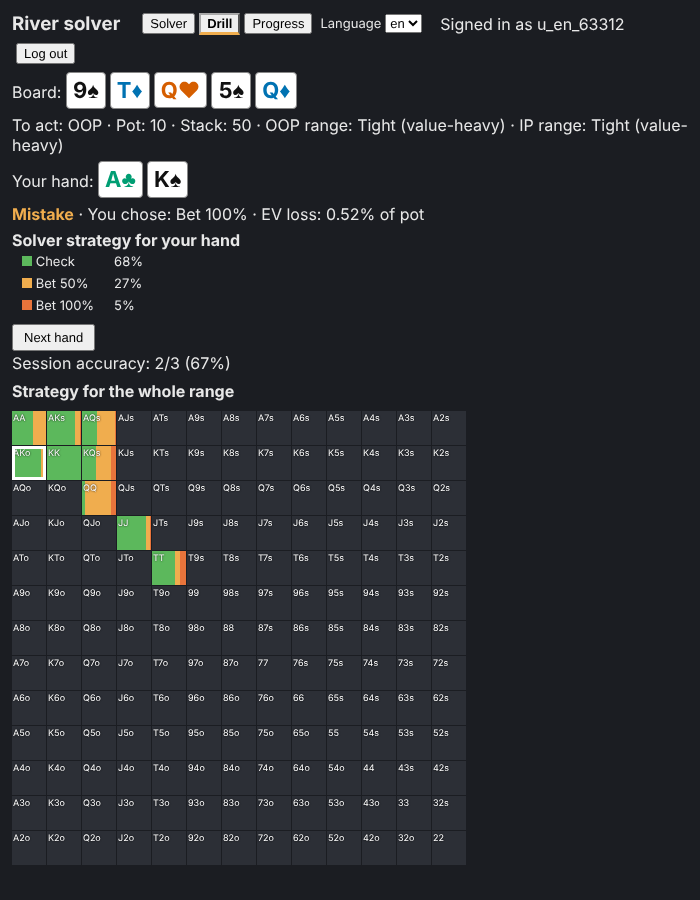
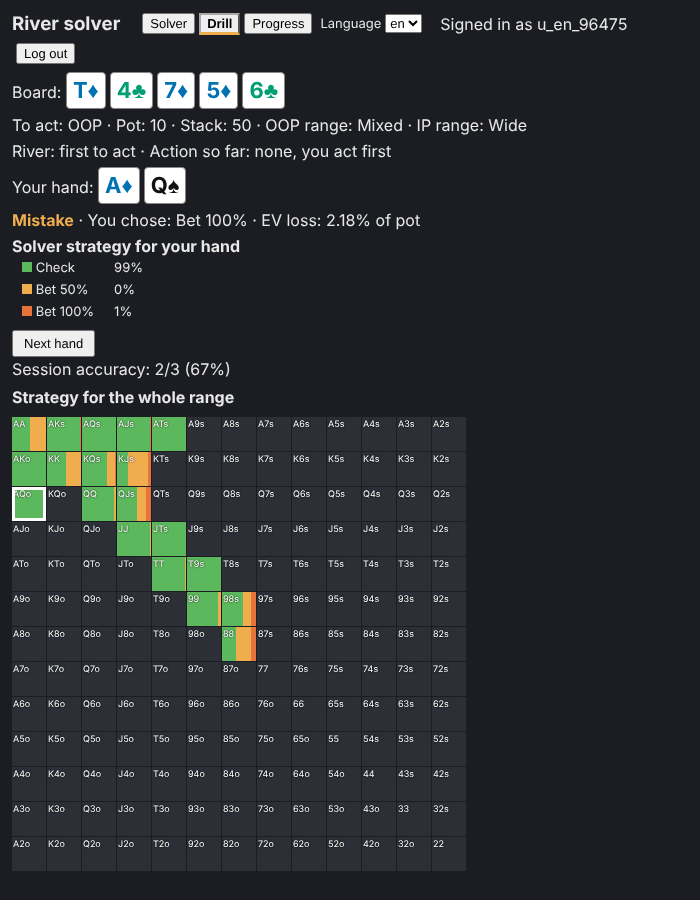
Drills cover every river decision node (reach-weighted path sampling); spot-type breakdown on progress page
Claude-Session: https://claude.ai/code/session_01515mrjejBGv2Z99h5qqhGr

diff --git a/web/src/main.ts b/web/src/main.ts
@@ -1,7 +1,7 @@
 import { t, fmt, locales, type Lang, type Key } from './i18n';
 import { parseRange, presets, R } from './ranges';
 import { api, ApiError, type Progress } from './api';
-import { combos, comboName, cardName, randomBoard, sampleHand, freqsFor, evLossPct, isCorrect, spotId, SUITS, RANKS } from './drill';
+import { combos, comboName, cardName, randomBoard, freqsFor, evLossPct, isCorrect, spotId, samplePath, nodeType, isFacing, type Step, type NodeType, SUITS, RANKS } from './drill';
 
 // Bet sizes sent to the engine; labels derive from these (NodeView has no size info, so this assumes none are merged/dropped, e.g. at all-in).
 const sizes = [0.5, 1];
@@ -16,7 +16,7 @@ let user: string | null = null;
 let authErr = '';
 let progress: Progress | 'loading' | null = null;
 const drill = { phase: 'idle' as 'idle' | 'solving' | 'ask' | 'reveal', board: '', oop: '', ip: '', view: null as View | null, h: 0,
-  freqs: [] as number[], chosen: -1, evLoss: 0, t0: 0, correct: 0, total: 0, saveErr: '' };
+  path: [] as number[], steps: [] as Step[], freqs: [] as number[], chosen: -1, evLoss: 0, t0: 0, correct: 0, total: 0, saveErr: '' };
 
 let lang: Lang = (new URLSearchParams(location.search).get('lang') as Lang) in locales
   ? (new URLSearchParams(location.search).get('lang') as Lang) : 'en';
@@ -34,15 +34,17 @@ worker.onmessage = (e) => {
   const m = e.data;
   if (m.type === 'progress') { expl = m.expl; iters = m.iters; if (owner === 'solver') { if (!view) query([]); renderStatus(); } }
   else if (m.type === 'done') {
-    if (owner === 'drill') { query([]); return; }
+    if (owner === 'drill') { dealNode(); return; }
     solving = false; expl = m.expl; iters = m.iters; query(path); render();
   }
   else if (m.type === 'node') {
-    if (owner === 'drill') { if (drill.phase === 'solving') dealHand(m.view); return; }
+    if (owner === 'drill') { pend.get(JSON.stringify(m.path))?.(m.view); return; }
     view = m.view; renderGrid();
   }
   else if (m.type === 'error') { solving = false; if (owner === 'drill') drill.phase = 'idle'; err = m.message; render(); }
 };
+const pend = new Map<string, (v: View) => void>();
+const queryAsync = (p: number[]) => new Promise<View>((res) => { pend.set(JSON.stringify(p), res); worker.postMessage({ type: 'query', path: p }); });
 const query = (p: number[]) => worker.postMessage({ type: 'query', path: p });
 
 function actions(v: View, fac: boolean): { key: Key; vars?: Record<string, string | number>; color: string }[] {
@@ -160,9 +162,15 @@ function startDrill() {
   render();
 }
 
-function dealHand(v: View) {
-  drill.view = v; drill.h = sampleHand(v.range); drill.phase = 'ask'; drill.t0 = Date.now();
+async function dealNode() {
+  const s = await samplePath(queryAsync, parseBoard(drill.board));
+  Object.assign(drill, { view: s.view, h: s.h, path: s.path, steps: s.steps, phase: 'ask', t0: Date.now() });
   if (screen === 'drill') render();
+}
+
+function stepLabel(s: Step): string {
+  const vars = s.size >= 0 ? { size: fmt(sizes[s.size] ?? 0, lang, { style: 'percent' }) } : undefined;
+  return `${tr(('player.' + s.player) as Key)}: ${tr(('action.' + s.kind) as Key, vars)}`;
 }
 
 function answer(i: number) {
@@ -174,7 +182,7 @@ function answer(i: number) {
   drill.total++; if (isCorrect(drill.freqs, i)) drill.correct++;
   drill.phase = 'reveal'; drill.saveErr = '';
   render();
-  api.postResult({ spotId: spotId(drill.board, drill.oop, drill.ip), hero: v.player, handCombo: comboName(drill.h), action: i,
+  api.postResult({ spotId: spotId(drill.board, drill.oop, drill.ip, nodeType(drill.steps), drill.path), hero: v.player, handCombo: comboName(drill.h), action: i,
     solverFreqs: drill.freqs, evLoss: drill.evLoss, ms, lang }).catch((e) => {
     if (e instanceof ApiError && e.status === 401) { handleApiErr(e); return; }
     drill.saveErr = errText(codeOf(e)); const el = document.getElementById('save-err'); if (el) el.textContent = drill.saveErr;
@@ -190,9 +198,11 @@ function renderDrill() {
   if (drill.phase === 'solving') { el.innerHTML = `<p id="drill-solving">${tr('drill.solving')}</p>${sessionLine()}`; return; }
   const v = drill.view!;
   const [c1, c2] = combos[drill.h];
-  const as = actions(v, false);
+  const as = actions(v, isFacing(drill.steps));
+  const nt = nodeType(drill.steps);
   const head = `<div>${tr('board')}: <span id="board-cards">${parseBoard(drill.board).map(cardHtml).join('')}</span></div>
     <div style="margin:6px 0">${tr('toAct', { player: tr(('player.' + v.player) as Key) })} · ${tr('pot')}: ${fmt(DRILL.pot, lang)} · ${tr('stack')}: ${fmt(DRILL.stack, lang)} · ${tr('oop')}: ${tr(('preset.' + drill.oop) as Key)} · ${tr('ip')}: ${tr(('preset.' + drill.ip) as Key)}</div>
+    <div id="history" data-node="${nt}" data-depth="${drill.steps.length}" style="margin:6px 0">${tr(('progress.spot.river:' + nt) as Key)} · ${tr('drill.history')}: ${drill.steps.length ? drill.steps.map(stepLabel).join(' → ') : tr('drill.noHistory')}</div>
     <div style="margin:6px 0">${tr('drill.yourHand')}: <span id="hand" data-combo="${comboName(drill.h)}">${[c2, c1].sort((a, b) => (b >> 2) - (a >> 2)).map(cardHtml).join('')}</span></div>`;
   if (drill.phase === 'ask') {
     el.innerHTML = `${head}<div>${tr('drill.choose')}</div><div id="acts">${as.map((a, i) => `<button class="a" data-a="${i}" style="border-left:6px solid ${a.color}">${tr(a.key, a.vars)}</button>`).join('')}</div>${sessionLine()}`;

diff --git a/web/tests/drill.test.ts b/web/tests/drill.test.ts
@@ -1,6 +1,6 @@
 import { expect, test } from 'vitest';
 import { readFileSync } from 'node:fs';
-import { combos, comboName, evLossPct, freqsFor, H, isCorrect, randomBoard, sampleHand, spotId } from '../src/drill';
+import { combos, comboName, evLossPct, freqsFor, H, isCorrect, randomBoard, sampleHand, spotId, samplePath, nodeType, stepOf } from '../src/drill';
 import { parseRange, presets } from '../src/ranges';
 import init, { Solver } from '../src/wasm/gto_wasm.js';
 
@@ -56,4 +56,70 @@ test('real engine: dealt hand is in range, per-action EVs are consistent with th
     const losses = f.map((_, k) => evLossPct(v.action_ev, v.opp_mass, v.n, h, k, 10));
     expect(Math.min(...losses)).toBe(0);
   }
+});
+
+// synthetic 2-level tree: root (OOP: check 25% / bet 75% for hand 0, always bet for hand 1), then IP node reach depends on that
+const fake = (path: number[]) => {
+  const range = new Float32Array(H), strategy = new Float32Array(2 * H);
+  if (path.length === 0) {
+    range[0] = 1; range[1] = 1; range[2] = 1;      // combo 2 shares a card with the board below
+    strategy[0] = 0.25; strategy[H] = 0.75; strategy[1] = 0; strategy[H + 1] = 1; strategy[2] = 0.5; strategy[H + 2] = 0.5;
+    return Promise.resolve({ kind: 'action', player: 0, n: 2, strategy, range });
+  }
+  if (path.length === 1) {
+    const r = path[0] === 0 ? [0.25 * 1, 0, 0] : [0.75, 1, 0];
+    r.forEach((x, h) => (range[h + 10] = x)); strategy[10] = strategy[H + 10] = 0.5;
+    strategy[H + 11] = 1; range[0] = 0;
+    return Promise.resolve({ kind: 'action', player: 1, n: 2, strategy, range });
+  }
+  return Promise.resolve({ kind: 'showdown', player: 0, n: 0, strategy, range });
+};
+
+test('samplePath: reach-weighted, deterministic, never board-colliding or zero-reach', async () => {
+  const board = [combos[2][1]]; // blocks combo 2
+  const run = async (seed: number) => { const rng = lcg(seed), out: string[] = []; for (let i = 0; i < 3000; i++) { const s = await samplePath(fake, board, rng, 0.4); out.push(`${s.path}|${s.h}`); } return out; };
+  const a = await run(5);
+  expect(await run(5)).toEqual(a);
+  const cnt: Record<string, number> = {};
+  for (const x of a) cnt[x] = (cnt[x] ?? 0) + 1;
+  for (const k of Object.keys(cnt)) {
+    const [p, h] = k.split('|'); const hh = +h;
+    expect(combos[hh].some((c) => board.includes(c))).toBe(false);
+    if (p === '0') expect(hh).toBe(10);          // only combo 10 has reach after check
+    if (p === '1') expect([10, 11]).toContain(hh);
+    if (p === '') expect([0, 1]).toContain(hh);
+  }
+  expect(Object.keys(cnt).some((k) => k.startsWith('1|'))).toBe(true);
+  // after bet, hand 10 (reach .75) vs 11 (reach 1) by weight
+  expect(cnt['1|11'] / cnt['1|10']).toBeGreaterThan(1.1);
+  expect(cnt['1|11'] / cnt['1|10']).toBeLessThan(1.6);
+  expect(a.some((x) => x.startsWith('|'))).toBe(true); // root still sampled
+  expect(nodeType([stepOf(0, 1, false)])).toBe('facing-bet');
+  expect(nodeType([stepOf(0, 1, false), stepOf(1, 2, true)])).toBe('facing-raise');
+  expect(nodeType([stepOf(0, 0, false)])).toBe('after-check');
+  expect(spotId('As Kd 7c 4h 2s', 'a', 'b', 'facing-bet', [1])).toBe('river:facing-bet:AsKd7c4h2s:a-b:1');
+});
+
+test('real engine: sampled non-root nodes are valid and consistent', async () => {
+  await init({ module_or_path: readFileSync(new URL('../src/wasm/gto_wasm_bg.wasm', import.meta.url)) });
+  const s = new Solver(JSON.stringify({ board: 'As Kd 7c 4h 2s', ranges: [parseRange(presets.mixed), parseRange(presets.mixed)],
+    streets: [{ pot: 10, stack: 50, sizes: [0.5, 1], raise_cap: 2 }], budget_mb: 1024 }));
+  s.step(60);
+  const q = async (p: number[]) => JSON.parse(s.query(JSON.stringify(p)));
+  const board = [51, 46, 21, 14, 3]; // As Kd 7c 4h 2s
+  const rng = lcg(11), types = new Set<string>();
+  for (let i = 0; i < 60; i++) {
+    const r = await samplePath(q, board, rng, 0.3);
+    const v = r.view;
+    types.add(nodeType(r.steps));
+    expect(v.kind).toBe('action');
+    expect(v.range[r.h]).toBeGreaterThan(0);
+    expect(combos[r.h].some((c) => board.includes(c))).toBe(false);
+    const f = freqsFor(v.strategy, v.n, r.h);
+    expect(f.reduce((x, y) => x + y, 0)).toBeCloseTo(1, 4);
+    expect(f.reduce((acc, p, k) => acc + p * v.action_ev[k * H + r.h], 0)).toBeCloseTo(v.ev[r.h], 2);
+    expect(Math.min(...f.map((_, k) => evLossPct(v.action_ev, v.opp_mass, v.n, r.h, k, 10)))).toBe(0);
+  }
+  console.log('node types sampled:', [...types]);
+  expect(types.size).toBeGreaterThan(1);
 });

diff --git a/web/src/drill.ts b/web/src/drill.ts
@@ -52,4 +52,53 @@ export function evLossPct(actionEv: ArrayLike<number>, oppMass: ArrayLike<number
 /** Same rule as the server: correct when the solver plays the chosen action >= 10% of the time. */
 export const isCorrect = (freqs: number[], action: number) => freqs[action] >= 0.1;
 
-export const spotId = (board: string, oop: string, ip: string) => `river:${board.replace(/\s+/g, '')}:${oop}-${ip}`;
+export type NodeType = 'root' | 'after-check' | 'facing-bet' | 'facing-raise';
+export interface Step { player: number; kind: 'check' | 'bet' | 'fold' | 'call' | 'raise'; size: number } // size = index into bet sizes (-1 = none)
+export interface NodeLike { kind: string; player: number; n: number; strategy: ArrayLike<number>; range: ArrayLike<number> }
+
+/** Meaning of action index i at a node (same convention as the UI: fold/call/raises when facing a bet, else check/bets). */
+export function stepOf(player: number, i: number, fac: boolean): Step {
+  if (fac) return i === 0 ? { player, kind: 'fold', size: -1 } : i === 1 ? { player, kind: 'call', size: -1 } : { player, kind: 'raise', size: i - 2 };
+  return i === 0 ? { player, kind: 'check', size: -1 } : { player, kind: 'bet', size: i - 1 };
+}
+export const isFacing = (steps: Step[]) => steps.length > 0 && ['bet', 'raise'].includes(steps[steps.length - 1].kind);
+export function nodeType(steps: Step[]): NodeType {
+  if (!steps.length) return 'root';
+  if (!isFacing(steps)) return 'after-check';
+  return steps.filter((s) => s.kind === 'bet' || s.kind === 'raise').length > 1 ? 'facing-raise' : 'facing-bet';
+}
+
+/** Copy of `range` with combos that share a card with `board` (card ints) zeroed. */
+export function maskBoard(range: ArrayLike<number>, board: number[]): Float64Array {
+  const out = new Float64Array(H);
+  for (let h = 0; h < H; h++) { const [a, b] = combos[h]; if (!board.includes(a) && !board.includes(b)) out[h] = range[h]; }
+  return out;
+}
+
+export interface Sampled<V> { path: number[]; steps: Step[]; view: V; h: number }
+/**
+ * Random walk from the root. At each action node stop with prob `stopP` (hero acts here), else draw the next action
+ * from the node player's reach-weighted average strategy. Stops early at a terminal/chance child or an empty range.
+ * Hero combo is then drawn by reach at the final node, never colliding with the board.
+ */
+export async function samplePath<V extends NodeLike>(query: (path: number[]) => Promise<V>, board: number[],
+  rng: () => number = Math.random, stopP = 1 / 3): Promise<Sampled<V>> {
+  let path: number[] = [], steps: Step[] = [];
+  let view = await query(path);
+  for (;;) {
+    const r = maskBoard(view.range, board);
+    if (rng() < stopP) break;
+    const mass = Array.from({ length: view.n }, (_, k) => { let m = 0; for (let h = 0; h < H; h++) m += r[h] * view.strategy[k * H + h]; return m; });
+    const tot = mass.reduce((a, b) => a + b, 0);
+    if (!(tot > 0)) break;
+    let x = rng() * tot, a = view.n - 1;
+    for (let k = 0; k < view.n; k++) if (mass[k] > 0 && (x -= mass[k]) < 0) { a = k; break; }
+    const np = [...path, a], child = await query(np);
+    if (child.kind !== 'action' || !(maskBoard(child.range, board).some((v) => v > 0))) break;
+    steps = [...steps, stepOf(view.player, a, isFacing(steps))]; path = np; view = child;
+  }
+  return { path, steps, view, h: sampleHand(maskBoard(view.range, board), rng) };
+}
+
+export const spotId = (board: string, oop: string, ip: string, type: NodeType = 'root', path: number[] = []) =>
+  `river:${type}:${board.replace(/\s+/g, '')}:${oop}-${ip}:${path.join('.') || 'root'}`;

diff --git a/server/test/server.test.js b/server/test/server.test.js
@@ -1,7 +1,7 @@
 import { test } from 'node:test';
 import assert from 'node:assert/strict';
 import { openDb } from '../src/db.js';
-import { createApp } from '../src/app.js';
+import { createApp, spotTypeOf } from '../src/app.js';
 import { summarize } from '../src/stats.js';
 
 async function boot(opts = {}) {
@@ -146,4 +146,17 @@ test('accuracy / streak / series math on fixed data', () => {
   assert.equal(summarize([row(1, 0, [1], 0), row(2, 0, [1], 0)], now).streak, 2);
   assert.equal(summarize([row(2, 0, [1], 0)], now).streak, 0);
   assert.equal(summarize([], now).accuracy, null);
+});
+
+test('spot type keeps the river node type but legacy ids map to the first segment', async () => {
+  assert.equal(spotTypeOf('river:facing-bet:AsKd7c4h2s:mixed-wide:0.1'), 'river:facing-bet');
+  assert.equal(spotTypeOf('river:root:AsKd7c4h2s:mixed-wide:root'), 'river:root');
+  assert.equal(spotTypeOf('river:AsKd7c4h2s:mixed-wide'), 'river');
+  assert.equal(spotTypeOf('rfi:btn'), 'rfi');
+  const s = await boot();
+  const r = await s.call('POST', '/api/register', creds());
+  const id = 'river:facing-raise:AsKd7c4h2s:mixed-wide:0.2.2';
+  assert.equal((await s.call('POST', '/api/drills/results', result({ spotId: id }), r.cookie)).status, 201);
+  assert.deepEqual((await s.call('GET', '/api/progress', undefined, r.cookie)).json.bySpotType.map((t) => t.spotType), ['river:facing-raise']);
+  s.close();
 });

diff --git a/server/src/app.js b/server/src/app.js
@@ -67,6 +67,9 @@ function validCreds(b) {
 }
 
 const SPOT_ID_RE = /^[A-Za-z0-9_.:/\-]{1,100}$/;
+// spot type = first segment, plus a node-type segment when present (e.g. river:facing-bet).
+const NODE_TYPE_RE = /^([A-Za-z0-9_.]+):(root|after-check|facing-bet|facing-raise)(?::|$)/;
+export const spotTypeOf = (id) => { const m = NODE_TYPE_RE.exec(id); return m ? `${m[1]}:${m[2]}` : id.split(':')[0]; };
 const COMBO_RE = /^[2-9TJQKA][cdhs][2-9TJQKA][cdhs]$/;
 function validResult(b) {
   const bad = (f) => { throw new HttpError(400, `invalid_${f}`); };
@@ -181,7 +184,7 @@ export function createApp({ db, webDist, now = Date.now, rateLimit = { max: 10, 
       const u = requireUser(req);
       const b = await readJson(req);
       validResult(b);
-      q.insRes.run(u.id, b.spotId, b.spotId.split(':')[0], b.hero, b.handCombo, b.action,
+      q.insRes.run(u.id, b.spotId, spotTypeOf(b.spotId), b.hero, b.handCombo, b.action,
         JSON.stringify(b.solverFreqs), b.evLoss, b.ms, b.lang ?? null, now());
       return send(res, 201, { ok: true });
     }

diff --git a/docs/glossary.md b/docs/glossary.md
@@ -20,3 +20,5 @@
 | streak | racha | serie |
 | EV loss | pérdida de EV | perdita di EV |
 | log in / register / log out | iniciar sesión / registrarse / cerrar sesión | accedi / registrati / esci |
+| first to act / after a check / facing a bet / facing a raise | primero en actuar / tras un pasar / ante una apuesta / ante una subida | primo a parlare / dopo una parola / di fronte a una puntata / di fronte a un rilancio |
+| action so far | acción hasta ahora | azione finora |
